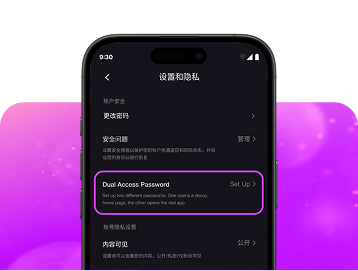
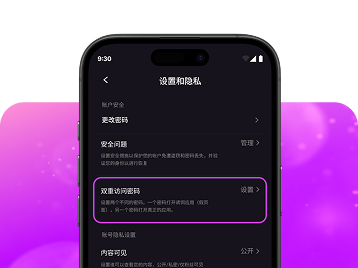
bug fix for pin entry and popup image

diff --git a/src/page/profile/security/PinEntry.tsx b/src/page/profile/security/PinEntry.tsx
@@ -33,8 +33,9 @@ const PinEntryBox: React.FC<PinEntryProps> = ({
     const dispatch = useDispatch();
     const [pin, setPin] = useState<string>("");
     const [error, setError] = useState(false);
+    const [lastIndex, setLastIndex] = useState<number | null>(null);
 
-    // Load wrong attempts from localStorage
+    // wrong attempts
     const [wrongAttempts, setWrongAttempts] = useState<number>(() => {
         const stored = localStorage.getItem("wrongAttempts");
         return stored ? parseInt(stored, 10) : 0;
@@ -42,14 +43,13 @@ const PinEntryBox: React.FC<PinEntryProps> = ({
 
     const [isDialogOpen, setIsDialogOpen] = useState(false);
 
-    // Save wrongAttempts to localStorage
     useEffect(() => {
         localStorage.setItem("wrongAttempts", wrongAttempts.toString());
     }, [wrongAttempts]);
 
     useEffect(() => {
         const handleKeyDown = (e: KeyboardEvent) => {
-            if (wrongAttempts >= 3) return; // block input after 3 attempts
+            if (wrongAttempts >= 3) return;
 
             if (e.key >= "0" && e.key <= "9") {
                 handleNumberPress(e.key);
@@ -66,7 +66,7 @@ const PinEntryBox: React.FC<PinEntryProps> = ({
         };
     }, [pin, wrongAttempts]);
 
-    // Get passwords from Redux store
+    // Redux passwords
     const encodedMasterPassword = useSelector(
         (state: { persist: { masterPassword: string | null } }) =>
             state.persist.masterPassword
@@ -83,25 +83,26 @@ const PinEntryBox: React.FC<PinEntryProps> = ({
     const savedDecoyPassword = encodedDecoyPassword
         ? decodePassword(encodedDecoyPassword)
         : null;
+
     const validatePin = (entered: string) => {
         if (savedMasterPassword && entered === savedMasterPassword) {
             setError(false);
             setWrongAttempts(0);
             onPinComplete?.(entered, "master");
-            // Use Redux action instead of localStorage
             dispatch(setIsPasswordCorrect(true));
+            setTimeout(() => setPin(""), 500);
             navigate("/");
         } else if (savedDecoyPassword && entered === savedDecoyPassword) {
             setError(false);
             setWrongAttempts(0);
             onPinComplete?.(entered, "decoy");
-            onPinComplete?.(entered, "decoy");
+            setTimeout(() => setPin(""), 500);
             window.location.href = "https://x.com";
         } else {
             setError(true);
             const newAttempts = wrongAttempts + 1;
             setWrongAttempts(newAttempts);
-
+            setTimeout(() => setPin(""), 500);
             if (newAttempts >= 3) {
                 dispatch(
                     showToast({
@@ -109,8 +110,6 @@ const PinEntryBox: React.FC<PinEntryProps> = ({
                         message: "尝试次数过多。由于安全原因，您正在被重定向。",
                     })
                 );
-
-                // wait a bit so the toast is visible before redirect
                 setTimeout(() => {
                     window.location.href = "https://www.google.com";
                 }, 2000);
@@ -124,7 +123,9 @@ const PinEntryBox: React.FC<PinEntryProps> = ({
         if (error) {
             setPin(num);
             setError(false);
+            setLastIndex(0);
             onPinChange?.(num);
+            setTimeout(() => setLastIndex(null), 500);
             return;
         }
 
@@ -132,6 +133,12 @@ const PinEntryBox: React.FC<PinEntryProps> = ({
             const newPin = pin + num;
             setPin(newPin);
             onPinChange?.(newPin);
+            const newIndex = newPin.length - 1;
+            setLastIndex(newIndex);
+
+            setTimeout(() => {
+                setLastIndex(null);
+            }, 500);
 
             if (newPin.length === maxLength) {
                 validatePin(newPin);
@@ -142,6 +149,7 @@ const PinEntryBox: React.FC<PinEntryProps> = ({
     const handleDelete = () => {
         if (wrongAttempts >= 3) return;
         setPin(pin.slice(0, -1));
+        setLastIndex(null);
     };
 
     const handleDone = () => {
@@ -152,20 +160,29 @@ const PinEntryBox: React.FC<PinEntryProps> = ({
     };
 
     const renderPinDots = () => {
-        return Array.from({ length: maxLength }, (_, index) => (
-            <div
-                key={index}
-                className={`w-10 h-10 sm:w-12 sm:h-12 bg-[#16131C] rounded-full flex items-center justify-center text-white font-semibold text-lg ${
-                    error ? "!text-[#F70F2D]" : "text-white"
-                }`}
-            >
-                {index < pin.length ? (
-                    pin[index]
-                ) : (
-                    <Minus className="w-4 h-4 sm:w-6 sm:h-6 text-white" />
-                )}
-            </div>
-        ));
+        return Array.from({ length: maxLength }, (_, index) => {
+            const isFilled = index < pin.length;
+            const shouldShowDigit = index === lastIndex;
+
+            return (
+                <div
+                    key={index}
+                    className={`w-10 h-10 sm:w-12 sm:h-12 bg-[#16131C] rounded-full flex items-center justify-center text-white font-semibold text-lg ${
+                        error ? "!text-[#F70F2D]" : "text-white"
+                    }`}
+                >
+                    {isFilled ? (
+                        shouldShowDigit ? (
+                            pin[index]
+                        ) : (
+                            "•"
+                        )
+                    ) : (
+                        <Minus className="w-4 h-4 sm:w-6 sm:h-6 text-white" />
+                    )}
+                </div>
+            );
+        });
     };
 
     const renderNumberButton = (num: string) => (
